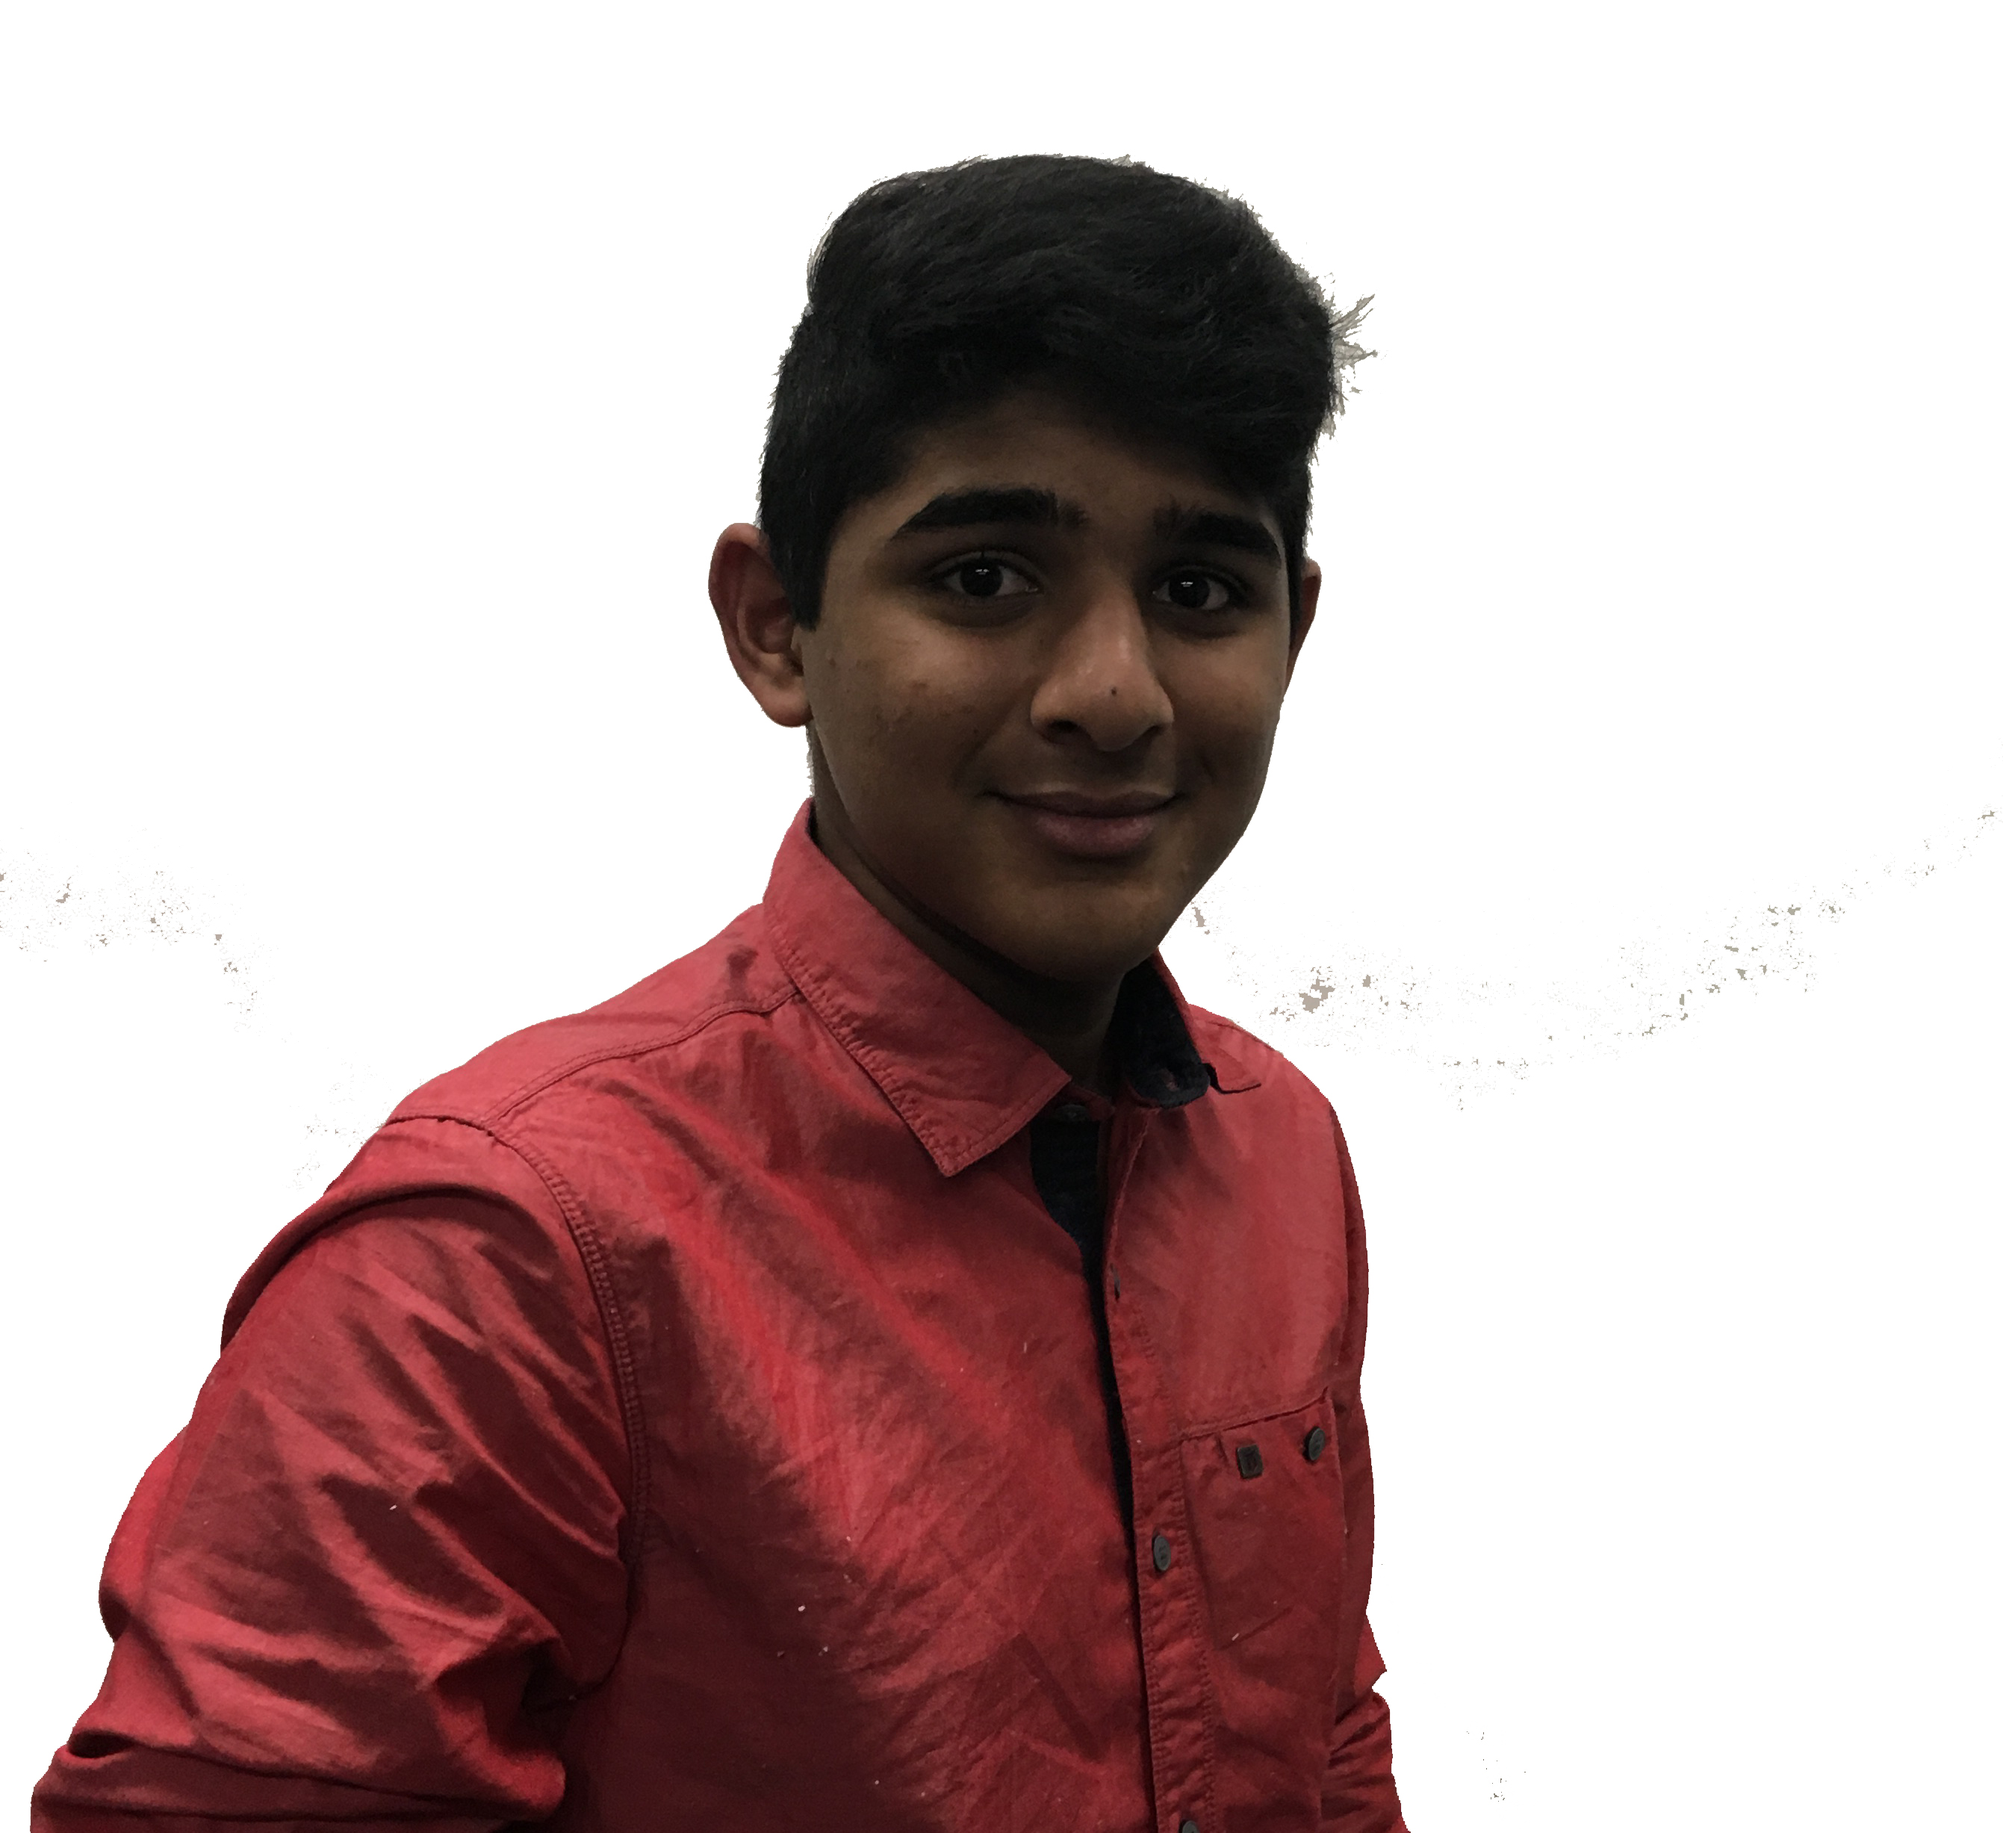
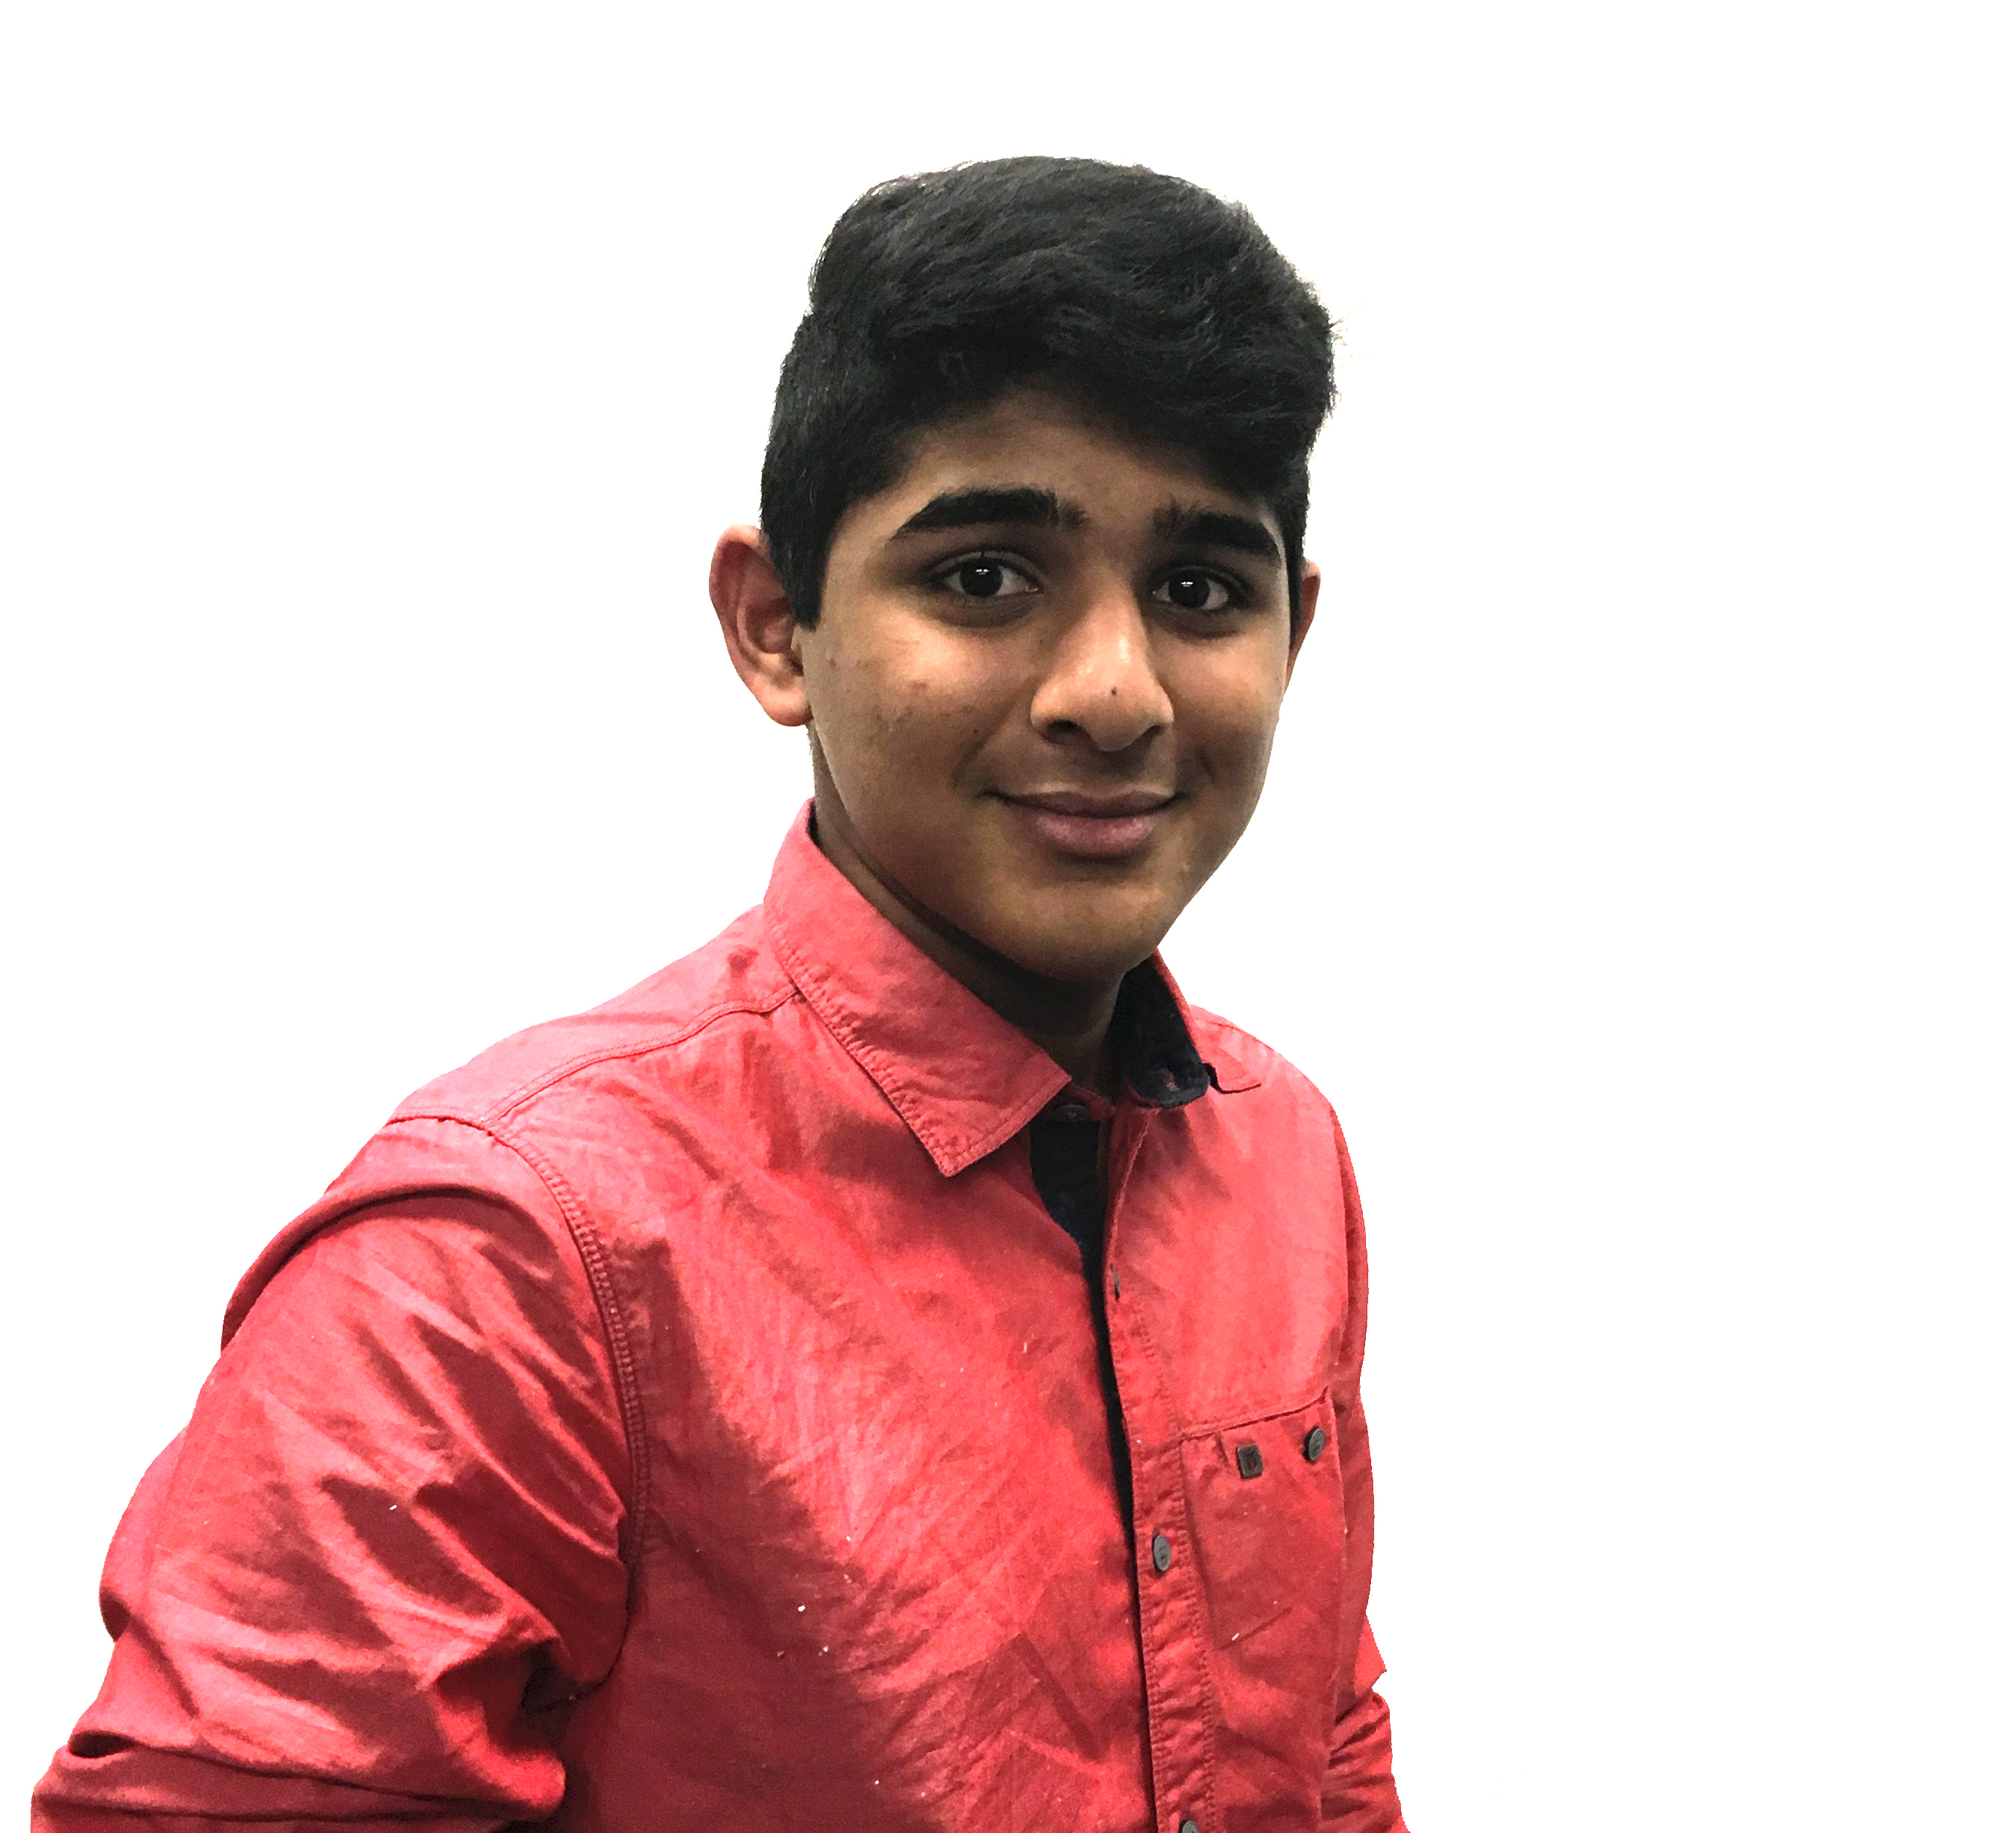
Updated pictures

diff --git a/team.html b/team.html
@@ -242,7 +242,7 @@
                     <hr>
                     <div class="row">
                         <div class="col s3">
-                            <img width="50%" height="50%" src="bios/students/Akash.JPG">
+                            <img width="50%" height="50%" src="bios/students/CrazyAkash.jpg">
                         </div>
                         <div class="col s9">
                             <p>I am a Junior at Hall High School. I enjoy riding my bike, working with machines and electronics, and writing code. Last year, I started working with RC devices, in which I built RC airplanes from scratch. I am now working with aerial photography. When I am older, I would like to major in Engineering or Mathematics. Perhaps Aerospace Engineering?</p>
